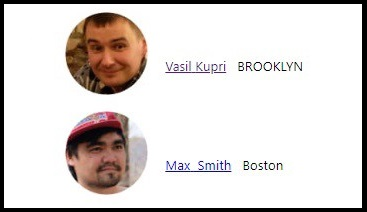
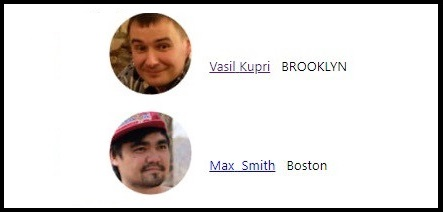
some css

Changed region(s): [[0.1798, 0.0566, 0.8392, 0.4528], [0.1798, 0.5094, 0.7793, 0.934]]

diff --git a/src/Resume.js b/src/Resume.js
@@ -34,27 +34,27 @@ class Resume extends Component {
                     <h3 className="center">Technical Skills</h3>
                     <div id="flex-tech-stack">
                         <div id="flex-item">
-                            <p>• HTML</p>
-                            <p>• CSS</p>
-                            <p>• Ruby</p>
-                            <p>• API</p>
-                            <p>• JavaScript</p>
-                            
+                            <p>HTML</p> <hr/>
+                            <p>CSS</p><hr/>
+                            <p>Ruby</p><hr/>
+                            <p>API</p><hr/>
+                            <p>Ruby on Rails</p>
                         </div>
                         <div id="flex-item">
-                            <p>• React.js</p>
-                            <p>• React Router</p>
-                            <p>• Material UI</p>
-                            <p>• React Native</p>
-                            <p>• Ruby on Rails</p>
+                            <p>JavaScript</p><hr/>
+                            <p>React.js</p><hr/>
+                            <p>Material UI</p><hr/>
+                            <p>React Router</p><hr/>                     
+                            <p>React Native</p>
+                          
                         </div>
                         <div id="flex-item">
                             
-                            <p>• PostgreSQL</p>
-                            <p>• SQLite</p>
-                            <p>• Cloudinary Storage</p>
-                            <p>• Heroku</p>
-                            <p>• GitHub</p>
+                            <p>PostgreSQL</p><hr/>
+                            <p>SQLite</p><hr/>
+                            <p>Heroku</p><hr/>
+                            <p>GitHub</p><hr/>
+                            <p>Cloudinary Storage</p>
                         </div>
                     </div>
   

diff --git a/src/App.css b/src/App.css
@@ -3,6 +3,13 @@ h1, p {
 }
 
 hr { 
+  /* in resume container, underlined tech stack */
+  width: 80%;
+  margin-left: 0;
+}
+
+#width-70 > hr {
+  /* devider between projects */
   margin-top: 30px;
   margin-bottom: 30px;
 }
@@ -40,13 +47,15 @@ hr {
 
 #flex-tech-stack {
   display: flex;
+  justify-content: center;
   /* border: 4px solid rgb(223, 42, 42); */
 }
 
 #flex-item {
+  width: 33%;
   padding-right: 30px;
   padding-bottom: 30px;
-  /* border: 4px solid rgb(22, 238, 105); */
+  /* border: 1px solid rgb(22, 238, 105);  */
 }
 
 #picture-container{
@@ -92,10 +101,11 @@ hr {
 }
 
 #nav-bar {
-  padding: 0px;
+  padding-top: 100px;;
+  /* padding: 0px; */
   width: 20%; 
   min-height: 100%;
-  /* border: 1px solid black; */
+  border: 1px solid pink;
   text-align: center;
   background-color:rgb(71, 67, 67)
 }
@@ -105,9 +115,10 @@ hr {
     display: flex;
     position: sticky;
     top: 0;
+    padding: 0;
     align-items: center;
-    text-align: center;
-    /* justify-content: space-around; */
+    /* text-align: center; */
+    /* justify-content: left;   */
     width: 100%;
     /* border: 1px solid black;  */
   }
@@ -126,9 +137,9 @@ hr {
 @media only screen and (max-width: 600px) {
   #main-container{
     padding-top: 20px;
-    padding-left: 10px;
-    padding-right: 10px;
-    width: 100%;
+    padding-left: 0px;
+    padding-right: 0px;
+    width: 80%;
     margin: auto;
     border: 2px solid rgb(146, 29, 29); 
   }  
@@ -225,6 +236,7 @@ hr {
   font-size: 30px;
 }
 
+
 @media only screen and (max-width: 600px) {
   #large {
     font-size: 15px;
@@ -266,6 +278,7 @@ hr {
   border-radius: 4px;
   color: white;
   padding: 15px;
+  margin: 15px;
   font-size: 16px;
   cursor: pointer;
 }

diff --git a/src/Projects.js b/src/Projects.js
@@ -9,10 +9,9 @@ class Projects extends Component {
                 </div>  
 
                  <div id="width-70"> 
-                    <p id="large">NYCable</p>
+                    <b id="medium">NYCABLE</b>
                     <p id='medium'> <a href="http://www.nycable.net/"> www.nycable.net</a> </p>
-                    <p><b>GitHub</b> &nbsp;
-                        <a href="https://github.com/yulia-2008/nycable_frontend">Frontend</a> &nbsp;
+                    <p> GitHub: <a href="https://github.com/yulia-2008/nycable_frontend">Frontend</a> &nbsp;
                         <a href="https://github.com/yulia-2008/nycable_backend">Backend</a>
                     </p>
                     <br></br>
@@ -61,8 +60,8 @@ class Projects extends Component {
 
                     <hr></hr> 
 
-                    <p id="large">MyKitchen</p>
-                    <p><b>GitHub</b> &nbsp;
+                    <b id="medium">MY KITCHEN</b>
+                    <p>GitHub: &nbsp;
                         <a href="https://github.com/yulia-2008/my-kitchen-frontend">Frontend</a> &nbsp;
                         <a href="https://github.com/yulia-2008/MyKitchen-backend">Backend</a>
                     </p>
@@ -94,8 +93,8 @@ class Projects extends Component {
 
                     <hr></hr>
 
-                    <p id="large">Ponder</p>
-                    <p><b>GitHub</b> &nbsp;
+                    <b id="medium">PONDER</b>
+                    <p>GitHub: &nbsp;
                         <a href="https://github.com/yulia-2008/ponder_frontend">Frontend</a> &nbsp;
                         <a href="https://github.com/yulia-2008/ponder_backend">Backend</a>
                     </p>

diff --git a/src/NavBar.js b/src/NavBar.js
@@ -6,12 +6,12 @@ class NavBar extends Component {
     render() {
         return (          
                 <div id="nav-bar"> 
-                    <div>
-                        <br></br>
+                    <img id="avatar" src={Yuliya} alt="yulia-picture"></img> 
+                    <div id="border">
                         <p id="large" className="white">Yuliya Yurkevich</p>
                         <p id="small" className="white">Fullstack Software Engineer</p>              
                     </div> 
-                    <img id="avatar" src={Yuliya} alt="yulia-picture"></img> 
+                    <br></br> <br></br>
                     
                     <div class="dropdown">
                         <button class="dropbtn" > Menu</button>
